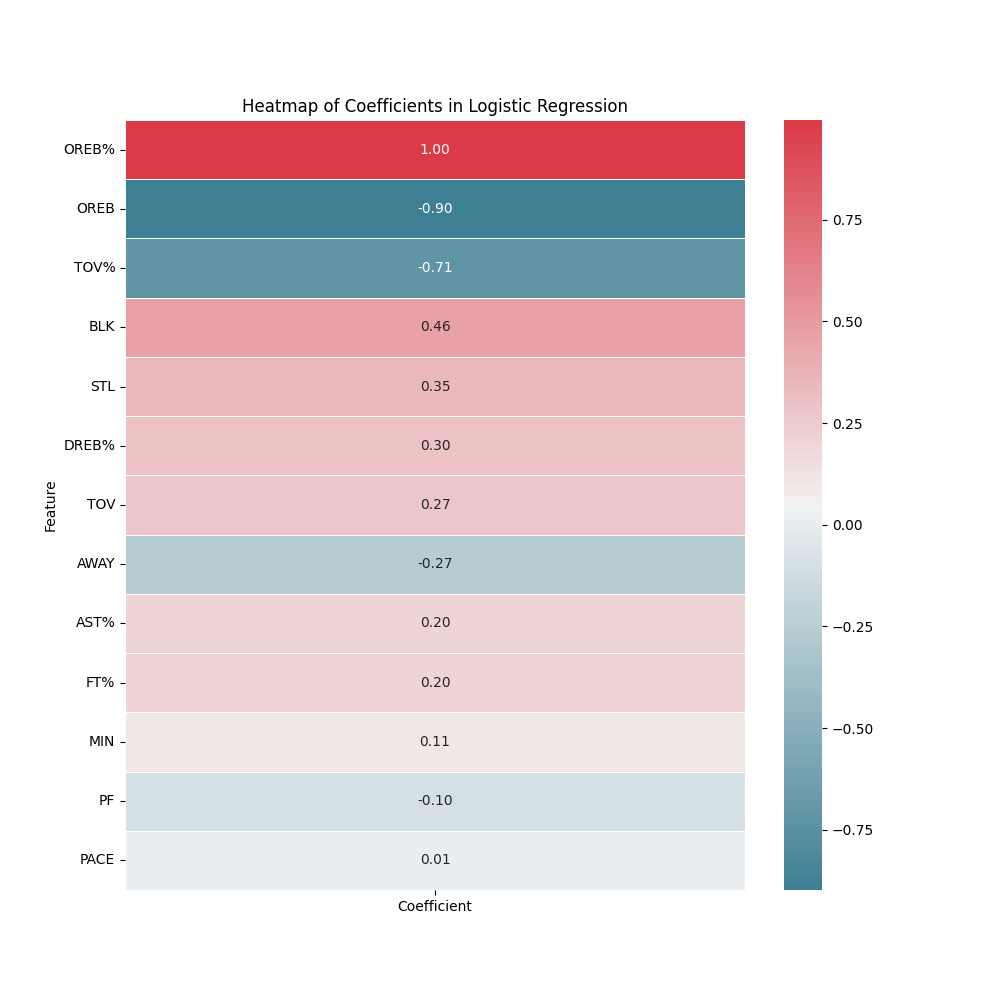
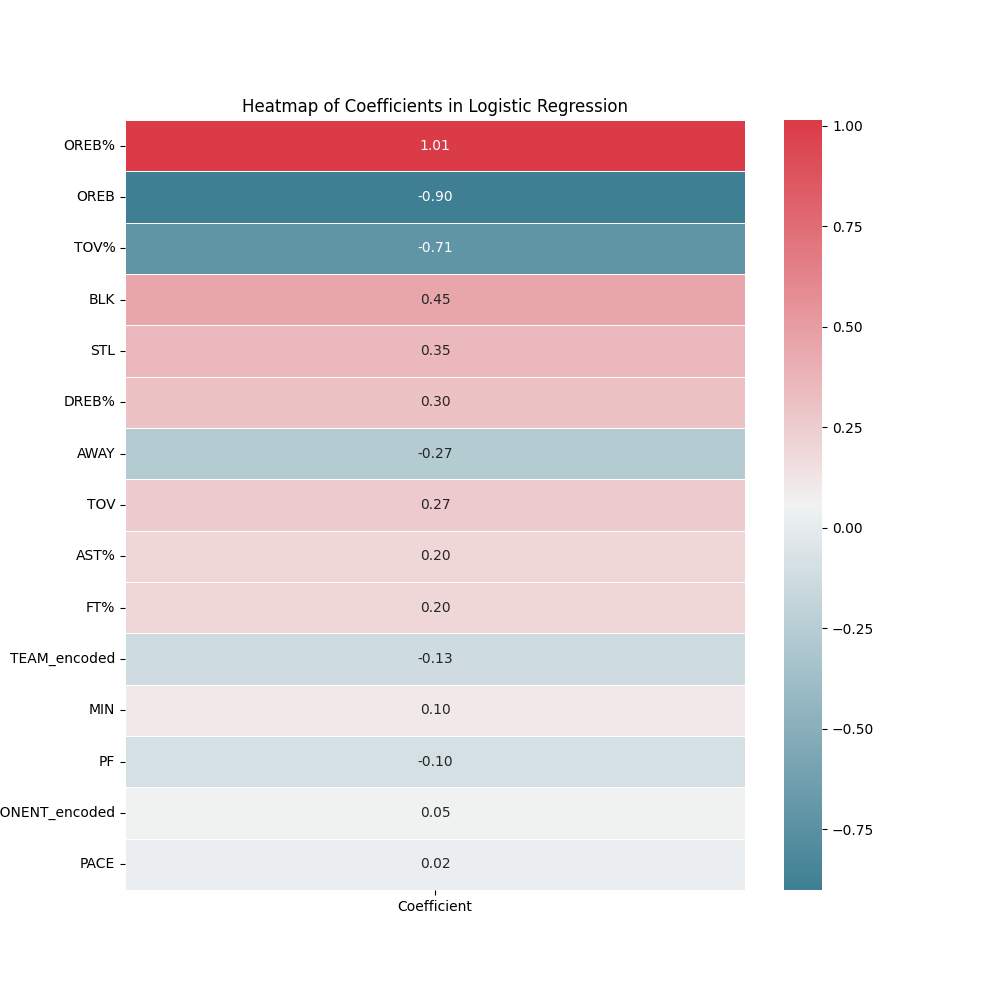
dropped columns

diff --git a/models/ben_models.py b/models/ben_models.py
@@ -19,7 +19,7 @@ import seaborn as sns
 data = pd.read_excel('../data/2023/encoded_allstats.xlsx')
 
 # Columns to remove that might contain outcome-related information
-columns_to_remove = ['TEAM_encoded', 'OPPONENT_encoded', '+/-', 'OFFRTG', 'DEFRTG', 'NETRTG', 'PIE', 'PTS', 'FGM', 'FTM', '3PM', 'FGA', 'FTA', '3PA', 'TS%', 'EFG%', 'REB%', 'FG%', 'AST.1', 'AST', 'DREB', 'REB', '3P%', 'AST/TO']
+columns_to_remove = ['+/-', 'OFFRTG', 'DEFRTG', 'NETRTG', 'PIE', 'PTS', 'FGM', 'FTM', '3PM', 'FGA', 'FTA', '3PA', 'TS%', 'EFG%', 'REB%', 'FG%', 'AST.1', 'AST', 'DREB', 'REB', '3P%', 'AST/TO']
 
 # Drop these columns from the dataset along with the target variable 'W/L'
 X_filtered = data.drop(columns_to_remove + ['W/L'], axis=1)
@@ -76,14 +76,30 @@ def logisitic_reg():
 
 
 def ada_boost():
-    ada = AdaBoostClassifier()
+    ada = AdaBoostClassifier(n_estimators=100, learning_rate=1.0, algorithm="SAMME", random_state=42)
     ada.fit(X_train_scaled, y_train)
+    # Predict the test set results and evaluate the model
+    y_pred = ada.predict(X_test_scaled)
+    accuracy = accuracy_score(y_test, y_pred)
+    report = classification_report(y_test, y_pred)
+    print(f'Accuracy: {accuracy}')
+    print('Classification Report:')
+    print(report)
 
 
 def grad_boost():
-    gb = GradientBoostingClassifier()
+    gb = GradientBoostingClassifier(n_estimators=100, learning_rate=1.0, random_state=42)
     gb.fit(X_train_scaled, y_train)
+    # Predict the test set results and evaluate the model
+    y_pred = gb.predict(X_test_scaled)
+    accuracy = accuracy_score(y_test, y_pred)
+    report = classification_report(y_test, y_pred)
+    print(f'Accuracy: {accuracy}')
+    print('Classification Report:')
+    print(report)
+
+
 
 logisitic_reg()
-# ada_boost()
-# grad_boost()
+ada_boost()
+grad_boost()
